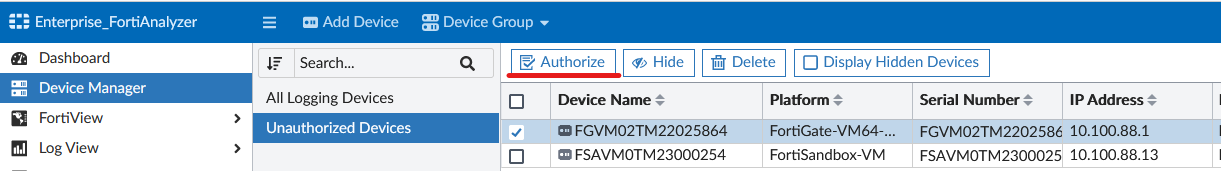
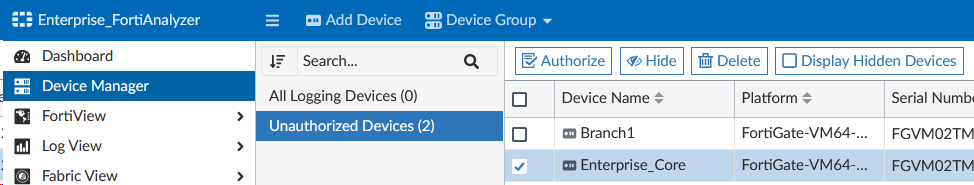
Addressing corrections mentioned by Huber

diff --git a/content/07_Chap_ZTP/01-page.md b/content/07_Chap_ZTP/01-page.md
@@ -12,13 +12,13 @@ The FortiManager Group is where we will find records that are used for FortiMana
 
 ![FortiManager dropdown](ZTP_modules.png?height=300px)
 
-|     Module Name     |                                                                                                                                                                                                                                                                              Description                                                                                                                                                                                                                                                                              |
-|:-------------------:|:---------------------------------------------------------------------------------------------------------------------------------------------------------------------------------------------------------------------------------------------------------------------------------------------------------------------------------------------------------------------------------------------------------------------------------------------------------------------------------------------------------------------------------------------------------------------:|
-|      Managers       |                                                                                                                                                                           Manager records define the FortiManagers, and the current firmware and status, used in your solution. Use this module to start the integration and/or simply report on the current status of your FortiManagers.                                                                                                                                                                            |
-|       Devices       |                                                                                                             Devices are synchronized from the FortiManager and stored in FortiSOAR. Then automation can occur on one or more devices based on operations and workflow needs. Once created in FortiSOAR they are not removed to preserve the last known status of the Device record even if the device has been removed, or moved, from your FortiManager.                                                                                                             |
-| Metafield Templates | Managing metafields is crucial to the success of any network deployment and provisioning. Metafield Templates can be used to prompt required users to respond to unknown, but required, fields before deployment. Templates can be used to integrate external systems and retrieve key data requirements before deployment. Templates can be customized to create dynamic metadata based on a wide range of advanced and complex requirements. Metadata inside FortiSOAR can be exported to FortiManger to be used by already existing solutions with minimal effort. |
-|  Script Templates   |                                                                     Scripts in FortiSOAR for this Solution Pack can be used for creating customized FortiManager CLI, Device DB, Policy DB, and/or TCL Scripts per device. Scripts in FortiSOAR can also maintain and create Provisioning CLI Templates in FortiManager such as when new ADOMs are created and need to be setup with Templates. Device reporting scripts can also be used to create a custom dashboard with user defined content.                                                                     |
-|    ZTP Profiles     |                                 The ZTP Profiles module describes how to handle the provisioning of each device maintained by the respective FortiManager. As a device shows up in the FortiManager Device DB, unauthorized or modeled, when ZTP Profiles are assigned to those devices the defined device templates and provisioning steps are applied and reported per device. ZTP Profiles can be assigned on demand or automatically assigned when devices are created in FortiManger regardless of how the devices were created.                                 |
+|     Module Name     |                                                                                                                                                                                                                                                                              Description                                                                                                                                                                                                                                                                               |
+|:-------------------:|:----------------------------------------------------------------------------------------------------------------------------------------------------------------------------------------------------------------------------------------------------------------------------------------------------------------------------------------------------------------------------------------------------------------------------------------------------------------------------------------------------------------------------------------------------------------------:|
+|      Managers       |                                                                                                                                                                            Manager records define the FortiManagers, and the current firmware and status, used in your solution. Use this module to start the integration and/or simply report on the current status of your FortiManagers.                                                                                                                                                                            |
+|       Devices       |                                                                                                             Devices are synchronized from the FortiManager and stored in FortiSOAR. Then automation can occur on one or more devices based on operations and workflow needs. Once created in FortiSOAR they are not removed to preserve the last known status of the Device record even if the device has been removed, or moved, from your FortiManager.                                                                                                              |
+| Metafield Templates | Managing metafields is crucial to the success of any network deployment and provisioning. Metafield Templates can be used to prompt required users to respond to unknown, but required, fields before deployment. Templates can be used to integrate external systems and retrieve key data requirements before deployment. Templates can be customized to create dynamic metadata based on a wide range of advanced and complex requirements. Metadata inside FortiSOAR can be exported to FortiManager to be used by already existing solutions with minimal effort. |
+|  Script Templates   |                                                                     Scripts in FortiSOAR for this Solution Pack can be used for creating customized FortiManager CLI, Device DB, Policy DB, and/or TCL Scripts per device. Scripts in FortiSOAR can also maintain and create Provisioning CLI Templates in FortiManager such as when new ADOMs are created and need to be setup with Templates. Device reporting scripts can also be used to create a custom dashboard with user defined content.                                                                      |
+|    ZTP Profiles     |                                 The ZTP Profiles module describes how to handle the provisioning of each device maintained by the respective FortiManager. As a device shows up in the FortiManager Device DB, unauthorized or modeled, when ZTP Profiles are assigned to those devices the defined device templates and provisioning steps are applied and reported per device. ZTP Profiles can be assigned on demand or automatically assigned when devices are created in FortiManager regardless of how the devices were created.                                 |
 
 ---
 On the Managers Module you will see a clickable navigation menu that can take you to different modules or Dashboards. The navigation is there to reduce the number of clicks to navigate to different modules. The navigation menu is also available on the other modules.

diff --git a/content/03_Chapter_FSR_Ovw_Setup/04-page.md b/content/03_Chapter_FSR_Ovw_Setup/04-page.md
@@ -16,8 +16,10 @@ Download the FortiSOAR Workshop systems settings {{% button href="https://fortin
 - Go to **System > Application Editor> Import Wizard** and import the file **FortiSOAR-SE_Training2023-Workshop.zip** by clicking **Import from File**
 ![Import Wizard](appeditor.png?height=300px)
 
-- Leave all the default settings and import all the components in the file and click ![Continue button](continue.png?height=40px&classes=left)
+- Leave all the default settings and import all the components in the file and click ![Continue button](continue.png?height=40px&classes=inline) twice
 ![Select configuration to import](selectconfigs.png?height=250px)
+
+- Click **Run Import** to import the configuration
 
 - The import should complete without error.
 ![Import Success](import.png?height=250px)

diff --git a/content/06_Chap_Config_DataIng/00-page.md b/content/06_Chap_Config_DataIng/00-page.md
@@ -12,6 +12,6 @@ In this section we prep the FortiAnalyzer to receive logs from the Enterprise Co
 1. Access the FortiAnalyzer by clicking on the **Enterprise FortiAnalyzer** **HTTPS** button from your demo instance or by browsing to `https://<your instance>.fortidemo.fortinet.com:14003/` ![HTTPS page](enterprise_faz.png)
 2. Sign in with fortinet/```$3curityFabric```
 3. Go to **Device Manager> Unauthorized Devices**
-4. Select the FortiGate by checking the box or right clicking, and click the **Authorize** Button
+4. Select the **Enterprise_Core** FortiGate by checking the box or right clicking, and click the **Authorize** Button
 ![Authorize FortiGate](authorize_fgt.png)
 1. Click the OK button on the popup to confirm the authorization.

diff --git a/content/06_Chap_Config_DataIng/04-page.md b/content/06_Chap_Config_DataIng/04-page.md
@@ -8,3 +8,9 @@ weight: 20
 Now that we have Alerts in FortiSOAR we could start working these using our standard operation flow.
 
 ![Alert page](confalerts.png)
+
+### Bonus Points :money_with_wings:
+
+1. Assign 2-3 of these alerts to SocUser2 by clicking the check box on those alerts, and then **Reassign** to **SocUser2**.
+2. Login to that users email on FortiMail and confirm the alert notifications were sent to the user.
+3. Meet the SLA by closing those alerts as false positives.

diff --git a/content/07_Chap_ZTP/06-page.md b/content/07_Chap_ZTP/06-page.md
@@ -11,7 +11,7 @@ We're now ready to assign a profile to the FortiGate. Now you might be thinking 
 
 ## Assign a ZTP Profile Manually
 1. Login to FortiSOAR using csadmin/```$3curityFabr1c```
-2. Navigate to the module FortiManager > Devices
+2. Navigate to the module **FortiManager > Devices**
 3. Click **Synchronize All FMG DeviceDb's**
 ![Sync devicce dbs](sync_device_db.png)
 4. You will now see Branch1 listed in the table

diff --git a/content/07_Chap_ZTP/05-page.md b/content/07_Chap_ZTP/05-page.md
@@ -25,4 +25,8 @@ In this section we’ll onboard a FortiGate manually so that it checks into Fort
 2. Navigate to **Device Manager > Unauthorized Devices**
 3. Confirm that the Branch1 FortiGate is listed
 
+{{% notice warning %}}
+Do not Authorize the device yet. We will do that in the next section.
+{{% /notice %}}
+
 ![Unauthorized branch1](unauthed_devices.png)

diff --git a/content/03_Chapter_FSR_Ovw_Setup/09-page.md b/content/03_Chapter_FSR_Ovw_Setup/09-page.md
@@ -11,4 +11,4 @@ You can use this to customize or redesign the look and feel of how to navigate F
 
 ---
 
-The Navigation Group is defined in Settings>Application Editor>Navigation. ![Navigation Page](nav.png)|
+The Navigation Group is defined in **Settings> Application Editor> Navigation**. ![Navigation Page](nav.png)|
